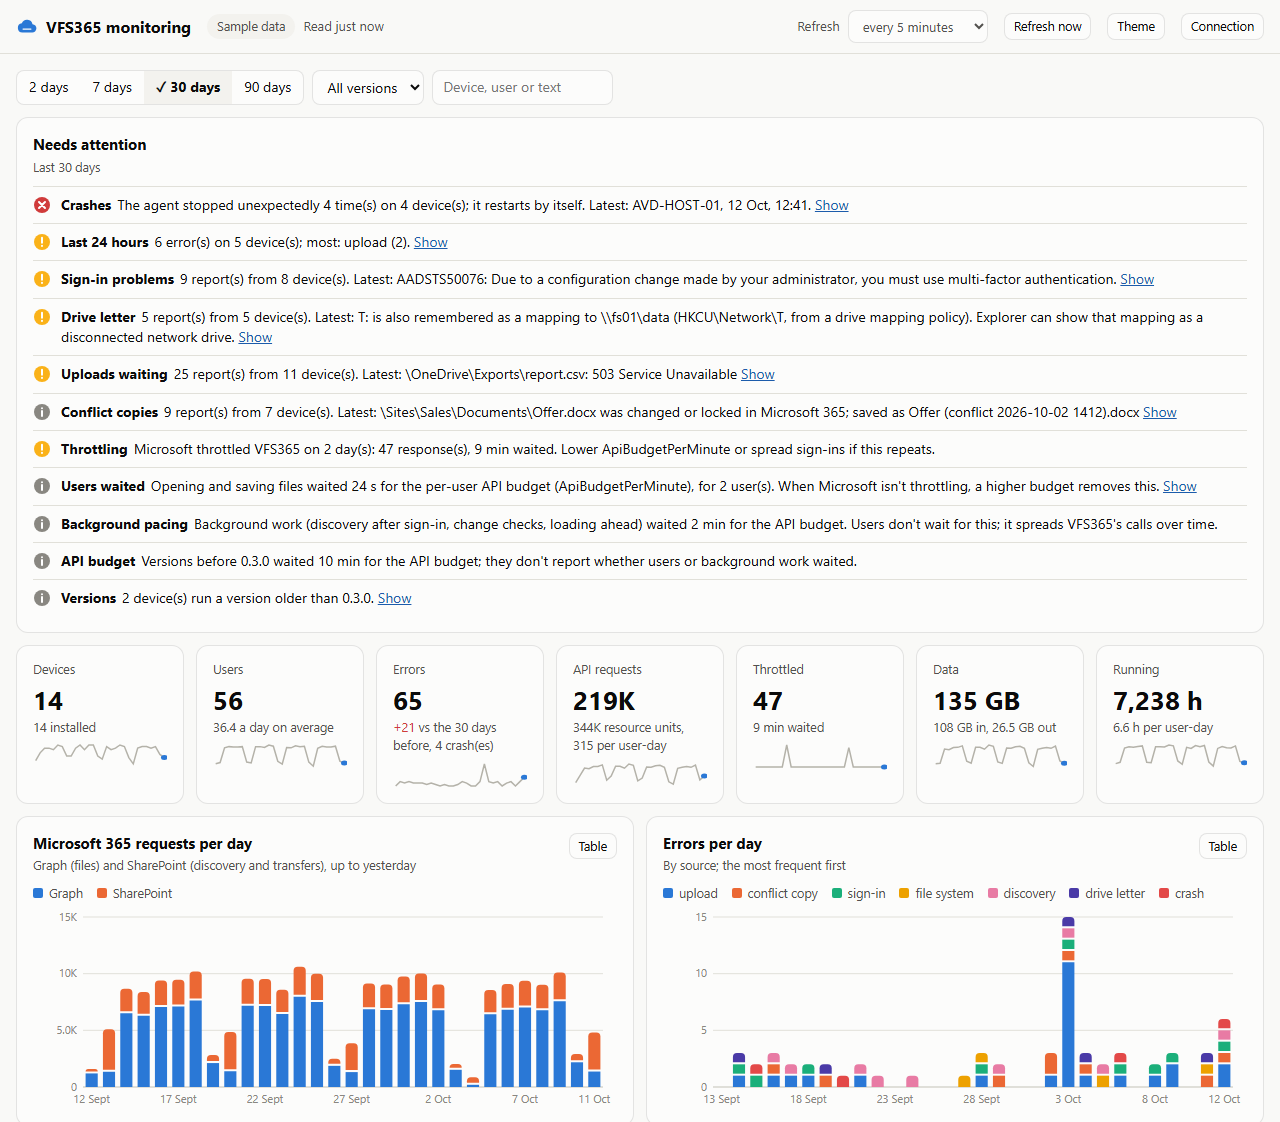
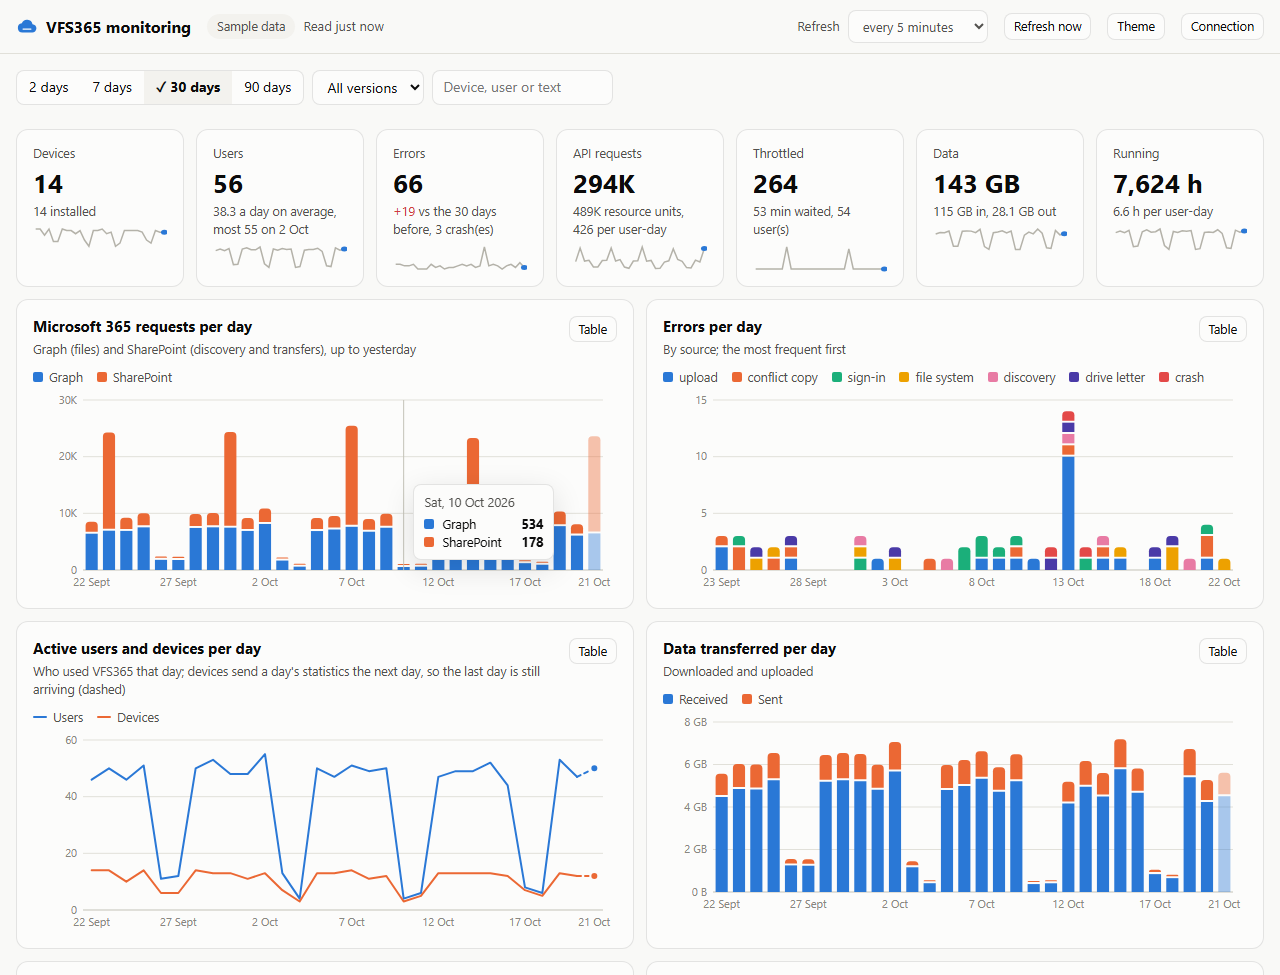
demo video

diff --git a/README.md b/README.md
@@ -6,6 +6,8 @@ Shows Microsoft 365 (OneDrive, Teams and SharePoint libraries) as a drive and as
 
 Status: early releases, in use at the first organisations. Downloads: [Releases](../../releases). What changed: [CHANGELOG.md](CHANGELOG.md).
 
+https://github.com/user-attachments/assets/a4b3872f-d3fd-4372-a001-83f90e983e33
+
 ## What users see
 
 One location in Explorer, named by policy (default "VFS365"), with every library the user can reach. Apps use plain paths such as `M:\Finance\Documents\Budget.xlsx` or `\\VFS365\<user>\Finance\Documents\Budget.xlsx`.
@@ -92,10 +94,50 @@ With the `MonitoringUrl` policy, every device reports errors, daily usage and in
 
 ![Monitoring dashboard with sample data](assets/screenshots/dashboard.png)
 
-## Limits no design removes
+#### Setting up monitoring
+
+You need an Azure storage account with three tables and two shared access signatures (SAS): one that devices use to add rows and can't read anything, and one that the dashboard uses to read and can't change anything.
+
+1. **Storage account.** Any StorageV2 account works; Standard LRS is plenty. Create the tables `errors`, `statistics` and `devices` (portal: Storage browser > Tables > Add table).
+2. **SAS for the devices.** Storage account > Security + networking > Shared access signature: allowed services **Table**, resource types **Object**, permissions **Add** only, HTTPS only, an expiry date (one or two years, with a reminder to renew). Generate and copy the **Table service SAS URL** (`https://<account>.table.core.windows.net/?sv=...&sp=a&...`).
+3. **Policy.** Set **Report to Azure table storage** (`MonitoringUrl`) to that URL as a **computer** policy: Group Policy (Computer Configuration > Administrative Templates > JSolve > VFS365 > Monitoring) or the Intune settings catalog after importing the ADMX. It is the registry value `MonitoringUrl` (REG_SZ) under `HKLM\SOFTWARE\Policies\JSolve\VFS365`. Computer policy, so the installer can report installs and updates too. Optional: **Detail in error reports** (`MonitoringDetail`) = `NoPaths` keeps file and folder paths out of the reports.
+4. **SAS for the dashboard.** A second SAS: services **Table**, resource types **Container** and **Object**, permissions **Read** and **List**, HTTPS only, a short expiry (the dashboard warns three days before it ends).
+5. **CORS**, so a browser may read the tables: Settings > Resource sharing (CORS) > Table service: allowed origins `*` (or where you host the dashboard), methods `GET` and `OPTIONS`, allowed and exposed headers `*`, max age `3600`.
+6. **Open the dashboard** ([vfs365-monitoring.html](monitoring/vfs365-monitoring.html), also attached to every release) in a browser and paste the second SAS URL. Rows appear as devices report: errors at once, a day's statistics the next day.
+
+The same with the Azure CLI, in PowerShell:
+
+```powershell
+$account = "contosovfs365"; $group = "rg-vfs365"; $location = "westeurope"   # account names: 3-24 lower-case letters and digits
+az group create --name $group --location $location
+az storage account create --name $account --resource-group $group --location $location --sku Standard_LRS --kind StorageV2 --min-tls-version TLS1_2 --allow-blob-public-access false
+$key = az storage account keys list --account-name $account --resource-group $group --query "[0].value" -o tsv
+foreach ($table in "errors", "statistics", "devices") { az storage table create --name $table --account-name $account --account-key $key }
+
+# Devices: add only, two years
+$add = az storage account generate-sas --account-name $account --account-key $key --services t --resource-types o --permissions a --https-only --expiry (Get-Date).AddYears(2).ToString("yyyy-MM-dd") -o tsv
+"MonitoringUrl: https://$account.table.core.windows.net/?$add"
+
+# Dashboard: read and list, 30 days
+$read = az storage account generate-sas --account-name $account --account-key $key --services t --resource-types co --permissions rl --https-only --expiry (Get-Date).AddDays(30).ToString("yyyy-MM-dd") -o tsv
+"Dashboard: https://$account.table.core.windows.net/?$read"
+
+az storage cors add --account-name $account --account-key $key --services t --methods GET OPTIONS --origins "*" --allowed-headers "*" --exposed-headers "*" --max-age 3600
+```
+
+Good to know:
+
+- **Renewing and revoking.** An expired devices SAS sends nothing (each device logs that once); set the new URL in the policy before the old one ends. A SAS can't be revoked on its own: regenerating the storage key it was signed with (`key1` above) revokes every SAS signed with that key. Sign new ones with `key2` first, roll them out, then regenerate `key1`.
+- **Network.** Devices send over https straight to `<account>.table.core.windows.net`. With the storage firewall on, allow your offices, VPN and AVD subnets, or the reports don't arrive (the log says why).
+- **Privacy.** Rows contain user and device names, and error rows file and folder paths unless `MonitoringDetail` is `NoPaths`. Keep the dashboard SAS short-lived and only share it with whoever needs it; anyone with it can read every row.
+- **Cost.** Small: a statistics row per user per day and a few error rows. For 2,500 users that is about 2,500 rows and a few MB a day, which costs cents a month in a standard account.
+
+See [Monitoring in DEPLOYMENT.md](docs/DEPLOYMENT.md#monitoring) for every column and when it is sent.
+
+## Limitations
 
 - Discovery uses SharePoint Search: sites excluded from search and Restricted Content Discovery sites aren't found. Pinned locations (policy, or `vfs365 pin` per user) fill the gap.
-- Byte-range locks don't cross machines: multi-user Access, QuickBooks and SQLite files are unsafe. The `DatabaseFiles` policy makes them read-only or blocks them.
+- Byte-range locks don't cross machines: multi-user Access, QuickBooks and SQLite files are unsafe. The `DatabaseFiles` policy makes them read-only or blocks them if you want / expect concurrent use
 - No Office co-authoring from the drive; that works only through Microsoft's own client.
 
 ## Docs
@@ -108,7 +150,7 @@ With the `MonitoringUrl` policy, every device reports errors, daily usage and in
 
 VFS365 is free software; support is not free. Bugs and ideas are welcome as [issues](../../issues). For help with deployment, troubleshooting or changes for your organisation, see [SUPPORT.md](SUPPORT.md) or https://jsolve.nl.
 
-## Build
+## If you want to build your own
 
 Needs the .NET 10 SDK (`build.ps1` finds a portable one too). Running the drive needs WinFsp. Releases also compile the small C network provider with Zig, which `build.ps1` fetches (pinned, hash-checked).
 
